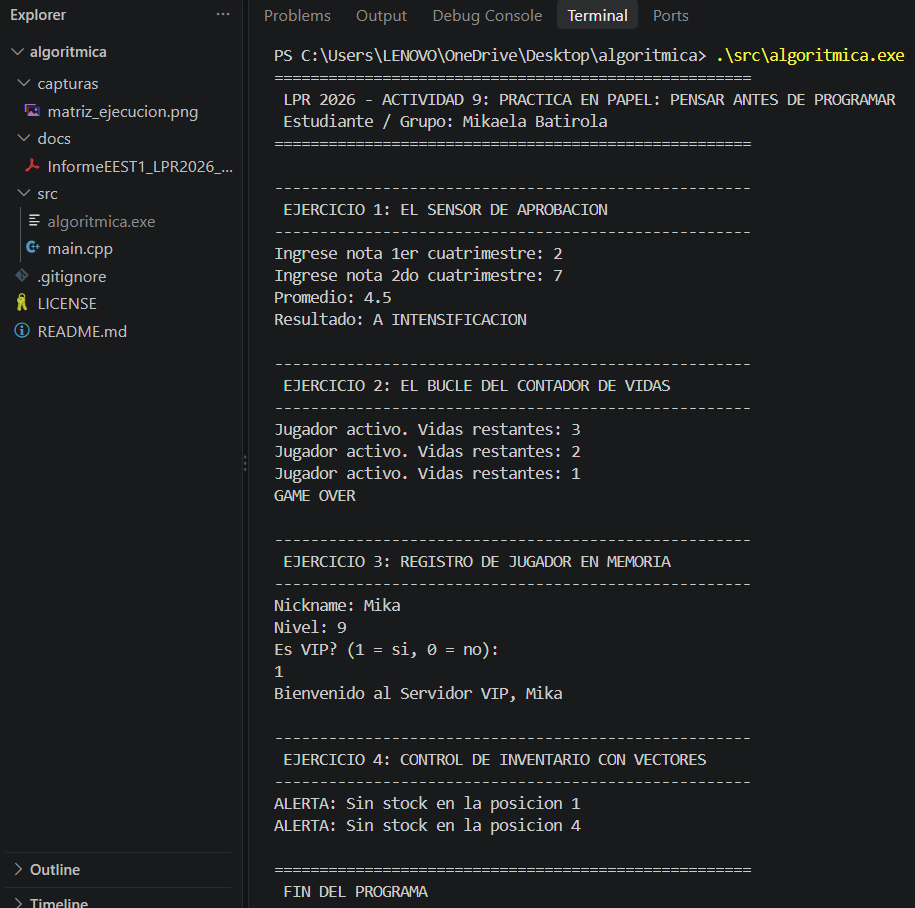
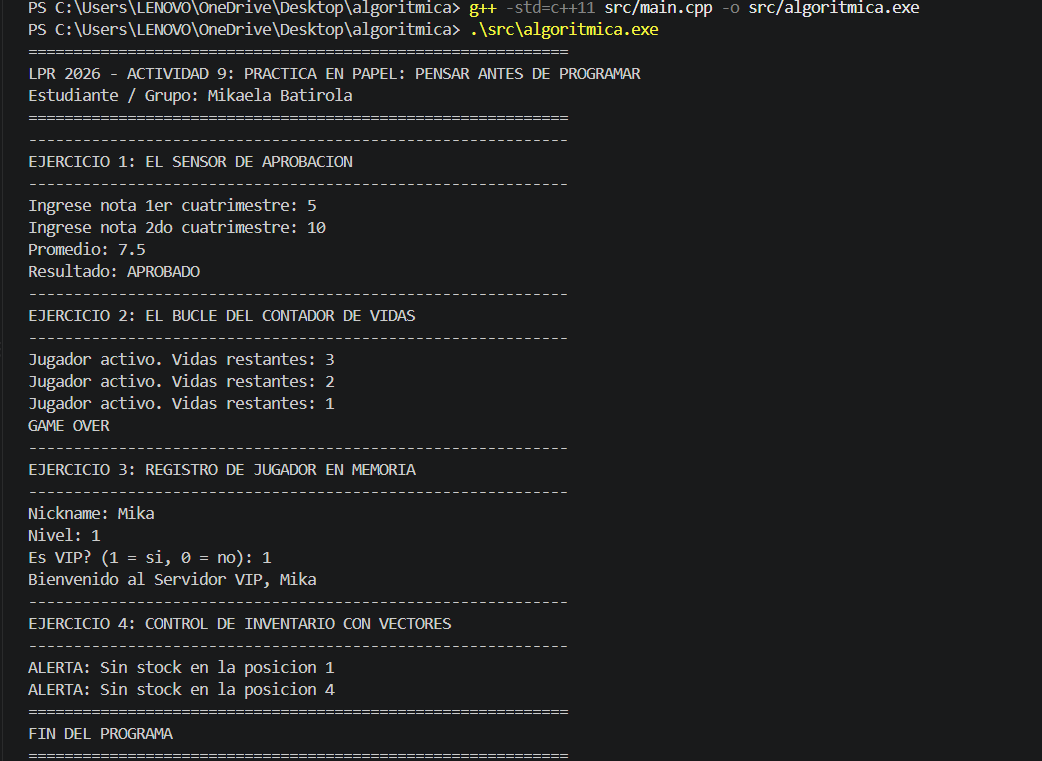
cambios y arreglos

diff --git a/src/main.cpp b/src/main.cpp
@@ -9,14 +9,8 @@
 
 #include <iostream>
 #include <string>
-using namespace std;
 
-void titulo(const string& texto) {
-    cout << endl;
-    cout << "-----------------------------------------------------" << endl;
-    cout << " " << texto << endl;
-    cout << "-----------------------------------------------------" << endl;
-}
+using namespace std;
 
 struct Jugador {
     string nickname;
@@ -26,57 +20,84 @@ struct Jugador {
 
 int main() {
 
-    cout << "=====================================================" << endl;
-    cout << " LPR 2026 - ACTIVIDAD 9: PRACTICA EN PAPEL: PENSAR ANTES DE PROGRAMAR " << endl;
-    cout << " Estudiante / Grupo: Mikaela Batirola" << endl;
-    cout << "=====================================================" << endl;
+    cout << "============================================================" << endl;
+    cout << "LPR 2026 - ACTIVIDAD 9: PRACTICA EN PAPEL: PENSAR ANTES DE PROGRAMAR" << endl;
+    cout << "Estudiante / Grupo: Mikaela Batirola" << endl; // <-- Pon tu nombre aquí
+    cout << "============================================================" << endl;
 
+    // EJERCICIO 1: El Sensor de Aprobacion
+    cout << "------------------------------------------------------------" << endl;
+    cout << "EJERCICIO 1: EL SENSOR DE APROBACION" << endl;
+    cout << "------------------------------------------------------------" << endl;
 
-
-// ---------------- Ejercicio 1 ----------------
-    titulo("EJERCICIO 1: EL SENSOR DE APROBACION");
     const int NOTA_MINIMA = 6;
-    double nota1, nota2;
-    cout << "Ingrese nota 1er cuatrimestre: "; cin >> nota1;
-    cout << "Ingrese nota 2do cuatrimestre: "; cin >> nota2;
-    double promedio = (nota1 + nota2) / 2;
-    cout << "Promedio: " << promedio << endl;
-    if (promedio >= NOTA_MINIMA) cout << "Resultado: APROBADO" << endl;
-    else cout << "Resultado: A INTENSIFICACION" << endl;
+    float nota1, nota2, promedio;
 
-// ---------------- Ejercicio 2 ----------------
-    titulo("EJERCICIO 2: EL BUCLE DEL CONTADOR DE VIDAS");
+    cout << "Ingrese nota 1er cuatrimestre: ";
+    cin >> nota1;
+    cout << "Ingrese nota 2do cuatrimestre: ";
+    cin >> nota2;
+
+    promedio = (nota1 + nota2) / 2;
+    cout << "Promedio: " << promedio << endl;
+
+    if (promedio >= NOTA_MINIMA) {
+        cout << "Resultado: APROBADO" << endl;
+    } else {
+        cout << "Resultado: A INTENSIFICACION" << endl;
+    }
+
+    // EJERCICIO 2: Contador de Vidas
+    cout << "------------------------------------------------------------" << endl;
+    cout << "EJERCICIO 2: EL BUCLE DEL CONTADOR DE VIDAS" << endl;
+    cout << "------------------------------------------------------------" << endl;
+
     int vidas = 3;
+
     while (vidas > 0) {
         cout << "Jugador activo. Vidas restantes: " << vidas << endl;
         vidas = vidas - 1;
     }
     cout << "GAME OVER" << endl;
 
-// ---------------- Ejercicio 3 ----------------
-    titulo("EJERCICIO 3: REGISTRO DE JUGADOR EN MEMORIA");
-    Jugador j;
-    int vip;
-    cout << "Nickname: "; cin >> j.nickname;
-    cout << "Nivel: "; cin >> j.nivel;
-    cout << "Es VIP? (1 = si, 0 = no): "; cin >> vip;
-    j.esVIP = (vip == 1);
-    if (j.esVIP) cout << "Bienvenido al Servidor VIP, " << j.nickname << endl;
-    else cout << "Bienvenido al Servidor Estandar, " << j.nickname << endl;
+    // EJERCICIO 3: Registro de Jugador
+    cout << "------------------------------------------------------------" << endl;
+    cout << "EJERCICIO 3: REGISTRO DE JUGADOR EN MEMORIA" << endl;
+    cout << "------------------------------------------------------------" << endl;
 
-// ---------------- Ejercicio 4 ----------------
-    titulo("EJERCICIO 4: CONTROL DE INVENTARIO CON VECTORES");
+    Jugador jugador;
+
+    cout << "Nickname: ";
+    cin >> jugador.nickname;
+    cout << "Nivel: ";
+    cin >> jugador.nivel;
+    cout << "Es VIP? (1 = si, 0 = no): ";
+    cin >> jugador.esVIP;
+
+    if (jugador.esVIP == true) {
+        cout << "Bienvenido al Servidor VIP, " << jugador.nickname << endl;
+    } else {
+        cout << "Bienvenido al Servidor Estandar, " << jugador.nickname << endl;
+    }
+
+    // EJERCICIO 4: Control de Inventario
+    cout << "------------------------------------------------------------" << endl;
+    cout << "EJERCICIO 4: CONTROL DE INVENTARIO CON VECTORES" << endl;
+    cout << "------------------------------------------------------------" << endl;
+
     int stock[5] = {12, 0, 5, 30, 0};
     int i = 0;
+
     while (i < 5) {
-        if (stock[i] == 0)
+        if (stock[i] == 0) {
             cout << "ALERTA: Sin stock en la posicion " << i << endl;
+        }
         i = i + 1;
     }
 
-    cout << endl;
-    cout << "=====================================================" << endl;
-    cout << " FIN DEL PROGRAMA" << endl;
-    cout << "=====================================================" << endl;
+    cout << "============================================================" << endl;
+    cout << "FIN DEL PROGRAMA" << endl;
+    cout << "============================================================" << endl;
+
     return 0;
 }
